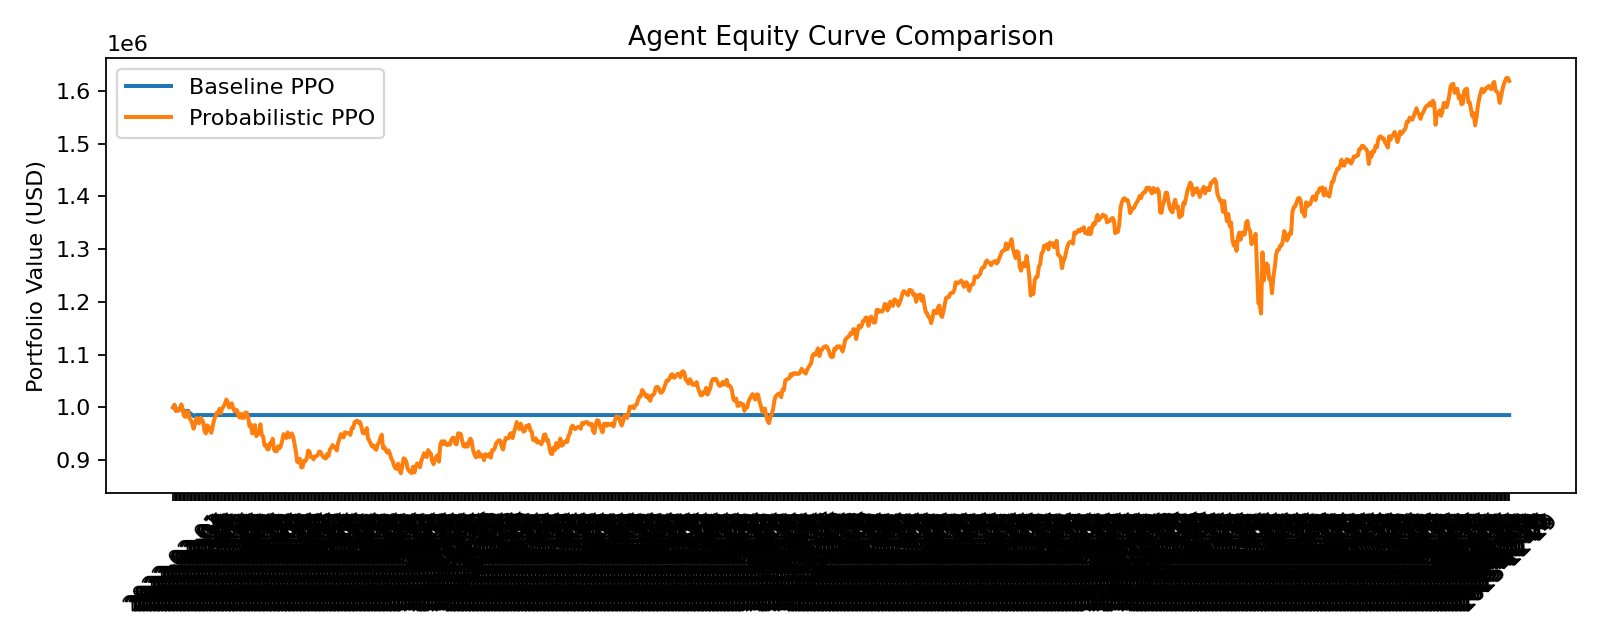
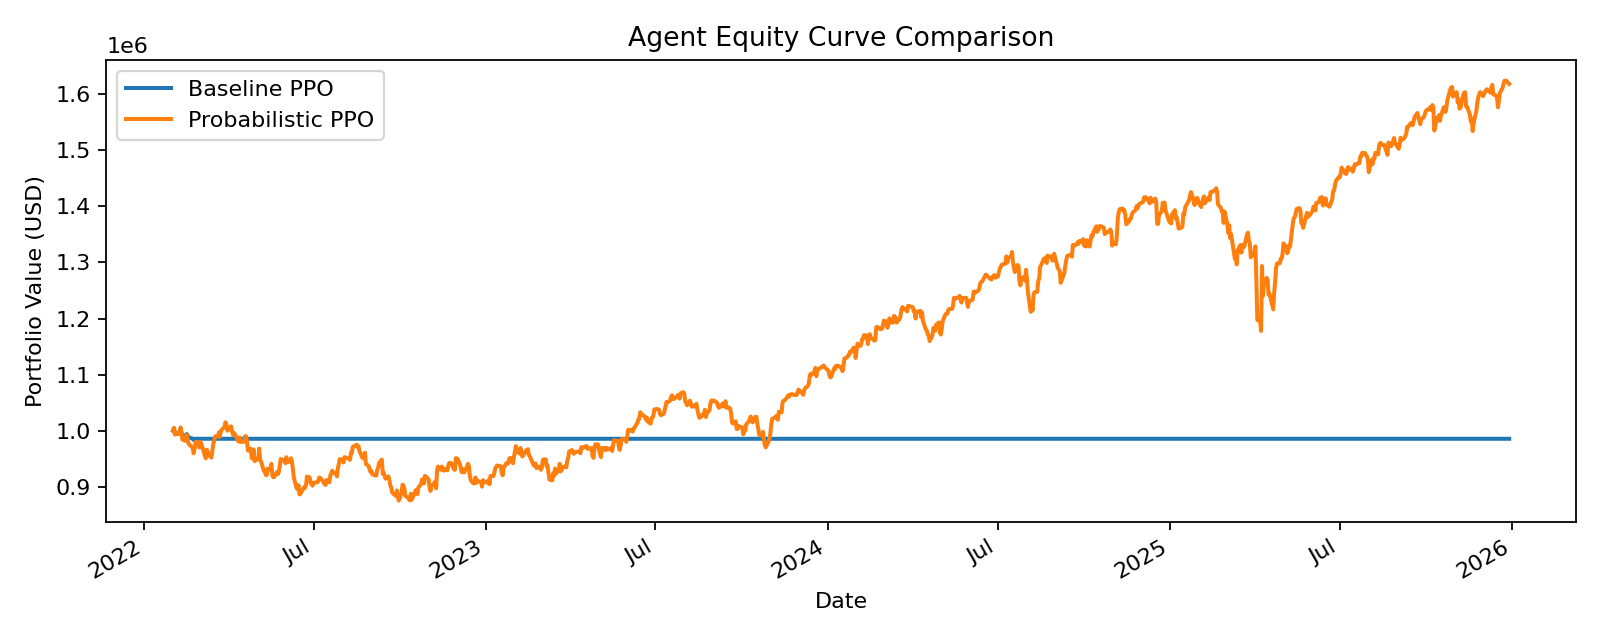
Fix unreadable x-axis on dissertation equity and uncertainty charts
Plot the date column as real datetimes with a sparse date locator and
ConciseDateFormatter instead of categorical strings, so the charts show
a handful of legible year/quarter ticks rather than a black smear of
several hundred overlapping daily labels. Regenerate the embedded PNGs.

diff --git a/reports/builders/plot_dissertation_visuals.py b/reports/builders/plot_dissertation_visuals.py
@@ -1,5 +1,6 @@
 from pathlib import Path
 
+import matplotlib.dates as mdates
 import matplotlib.pyplot as plt
 import pandas as pd
 import yfinance as yf
@@ -33,28 +34,37 @@ def _load_curves(results_dir: Path, pattern: str) -> pd.DataFrame:
 def _plot_equity_curves(base_df: pd.DataFrame, prob_df: pd.DataFrame, out_path: Path) -> None:
     b = base_df.groupby("date", as_index=False)["portfolio_value"].mean()
     p = prob_df.groupby("date", as_index=False)["portfolio_value"].mean()
-    plt.figure(figsize=(10, 4))
-    plt.plot(b["date"], b["portfolio_value"], label="Baseline PPO", linewidth=1.8)
-    plt.plot(p["date"], p["portfolio_value"], label="Probabilistic PPO", linewidth=1.8)
-    plt.xticks(rotation=45)
-    plt.ylabel("Portfolio Value (USD)")
-    plt.title("Agent Equity Curve Comparison")
-    plt.legend()
-    plt.tight_layout()
-    plt.savefig(out_path, dpi=160)
-    plt.close()
+    b = b.assign(date=pd.to_datetime(b["date"])).sort_values("date")
+    p = p.assign(date=pd.to_datetime(p["date"])).sort_values("date")
+    fig, ax = plt.subplots(figsize=(10, 4))
+    ax.plot(b["date"], b["portfolio_value"], label="Baseline PPO", linewidth=1.8)
+    ax.plot(p["date"], p["portfolio_value"], label="Probabilistic PPO", linewidth=1.8)
+    ax.xaxis.set_major_locator(mdates.AutoDateLocator())
+    ax.xaxis.set_major_formatter(mdates.ConciseDateFormatter(ax.xaxis.get_major_locator()))
+    ax.set_xlabel("Date")
+    ax.set_ylabel("Portfolio Value (USD)")
+    ax.set_title("Agent Equity Curve Comparison")
+    ax.legend()
+    fig.autofmt_xdate()
+    fig.tight_layout()
+    fig.savefig(out_path, dpi=160)
+    plt.close(fig)
 
 
 def _plot_uncertainty(prob_df: pd.DataFrame, out_path: Path) -> None:
     p = prob_df.groupby("date", as_index=False)["uncertainty"].mean()
-    plt.figure(figsize=(10, 3))
-    plt.plot(p["date"], p["uncertainty"], color="orange", linewidth=1.6)
-    plt.xticks(rotation=45)
-    plt.ylabel("Uncertainty Score")
-    plt.title("Probabilistic Uncertainty Signal Over Time")
-    plt.tight_layout()
-    plt.savefig(out_path, dpi=160)
-    plt.close()
+    p = p.assign(date=pd.to_datetime(p["date"])).sort_values("date")
+    fig, ax = plt.subplots(figsize=(10, 3))
+    ax.plot(p["date"], p["uncertainty"], color="orange", linewidth=1.6)
+    ax.xaxis.set_major_locator(mdates.AutoDateLocator())
+    ax.xaxis.set_major_formatter(mdates.ConciseDateFormatter(ax.xaxis.get_major_locator()))
+    ax.set_xlabel("Date")
+    ax.set_ylabel("Uncertainty Score")
+    ax.set_title("Probabilistic Uncertainty Signal Over Time")
+    fig.autofmt_xdate()
+    fig.tight_layout()
+    fig.savefig(out_path, dpi=160)
+    plt.close(fig)
 
 
 def _plot_market_data(ticker: str, start: str, end: str, out_path: Path) -> None:
